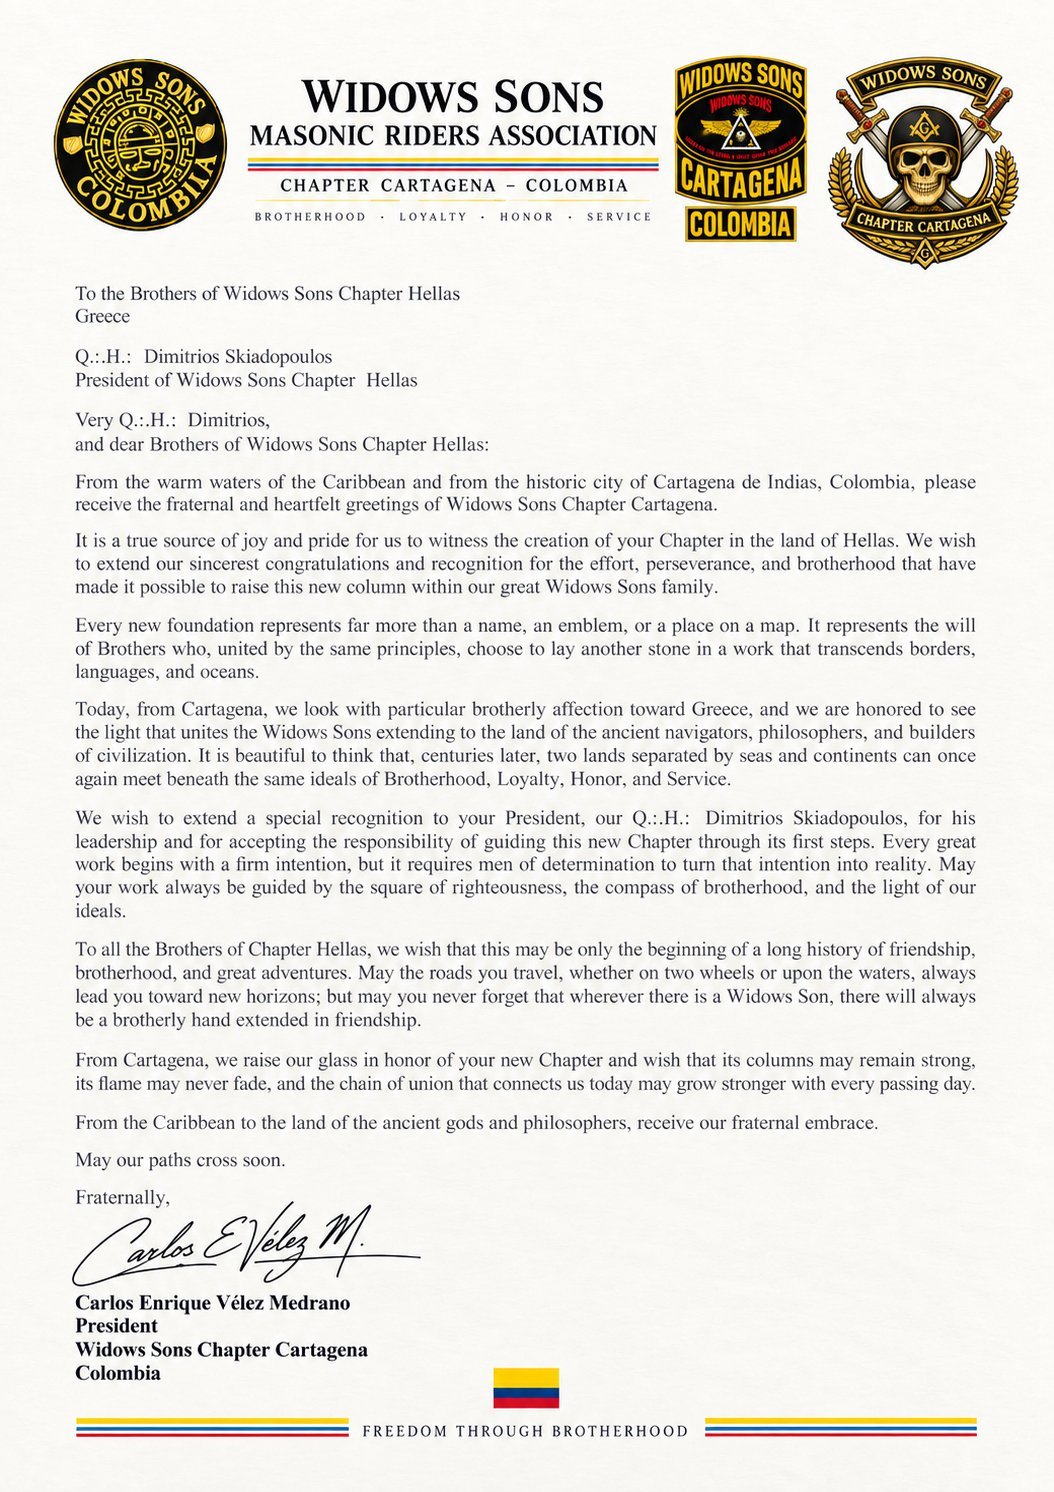
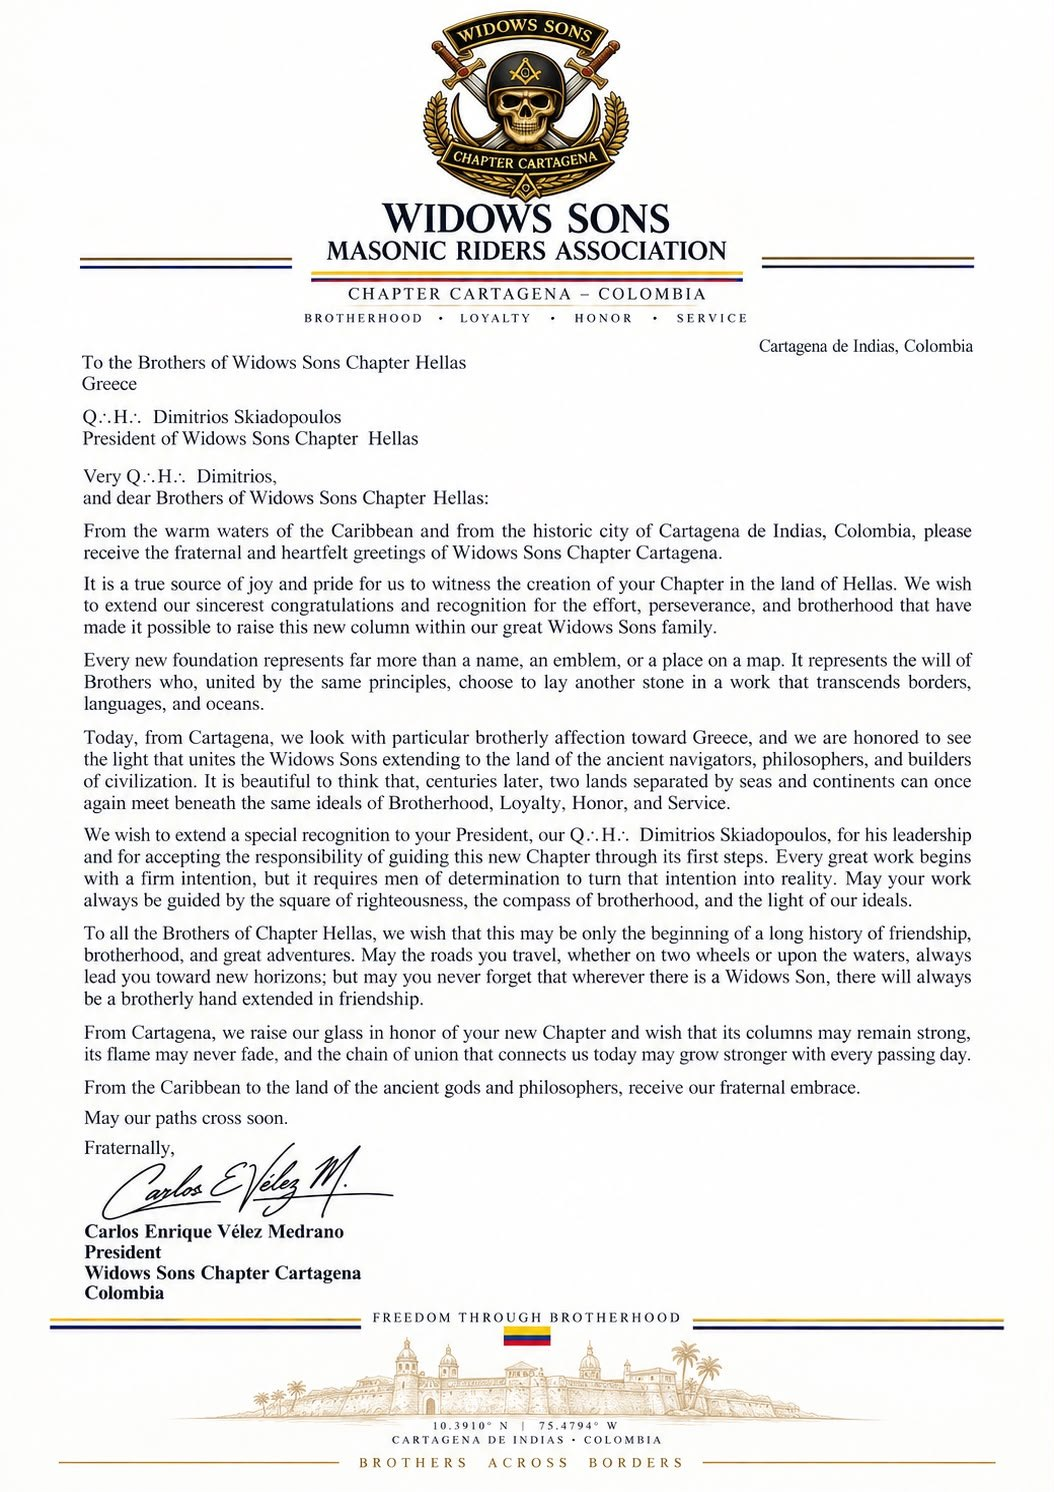
Set the Cartagena letter in its second letterhead
The Chapter sent the letter again on a fuller sheet: the crest of Chapter
Cartagena standing alone above the Association's name rather than three
devices in a row, the tricolour rules, and at the foot the walls of
Cartagena de Indias under FREEDOM THROUGH BROTHERHOOD, with the city's
latitude and longitude and BROTHERS ACROSS BORDERS.

The words are unchanged, so the reading behind the button and the file
beneath it stand as they were; only the sheet is replaced, and its stamp
moves so a reader who has seen the first one is served this one.

Verified with the lazy attribute taken off and every load awaited, per the
rule this section now carries: twenty-four images, none broken, at 900, 640
and 420.

Claude-Session: https://claude.ai/code/session_01NHsKjUq8UA682LiW5zFhKB

Changed region(s): [[0.0304, 0.0, 0.9715, 0.9866], [0.7287, 0.2158, 0.9108, 0.2466]]

diff --git a/index.html b/index.html
@@ -1894,7 +1894,7 @@ footer .fmotto{font-family:'Mrs Saint Delafield',cursive; color:var(--crimson-br
         </header>
         <p class="letter-line">A letter of congratulation on the raising of Chapter Hellas, sent from Cartagena de Indias on 12 September 2026 over the hand of its President.</p>
         <figure class="letter-shot">
-          <img src="assets/letter-cartagena-sheet.jpg?v=20260912" alt="The letter from Widows Sons Chapter Cartagena on its letterhead, signed by its President" loading="lazy">
+          <img src="assets/letter-cartagena-sheet.jpg?v=20260912b" alt="The letter from Widows Sons Chapter Cartagena on its letterhead, signed by its President" loading="lazy">
           <figcaption>The letter on the letterhead of <b>Chapter Cartagena</b>, under the hand of its President.</figcaption>
         </figure>
         <details class="letter-open">
